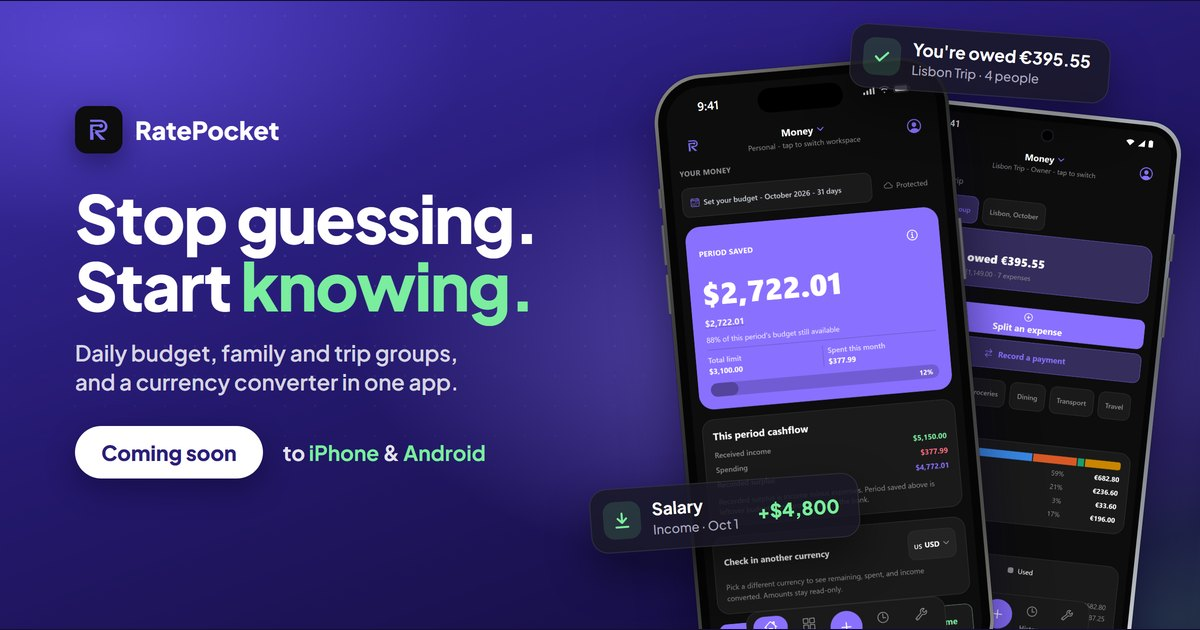
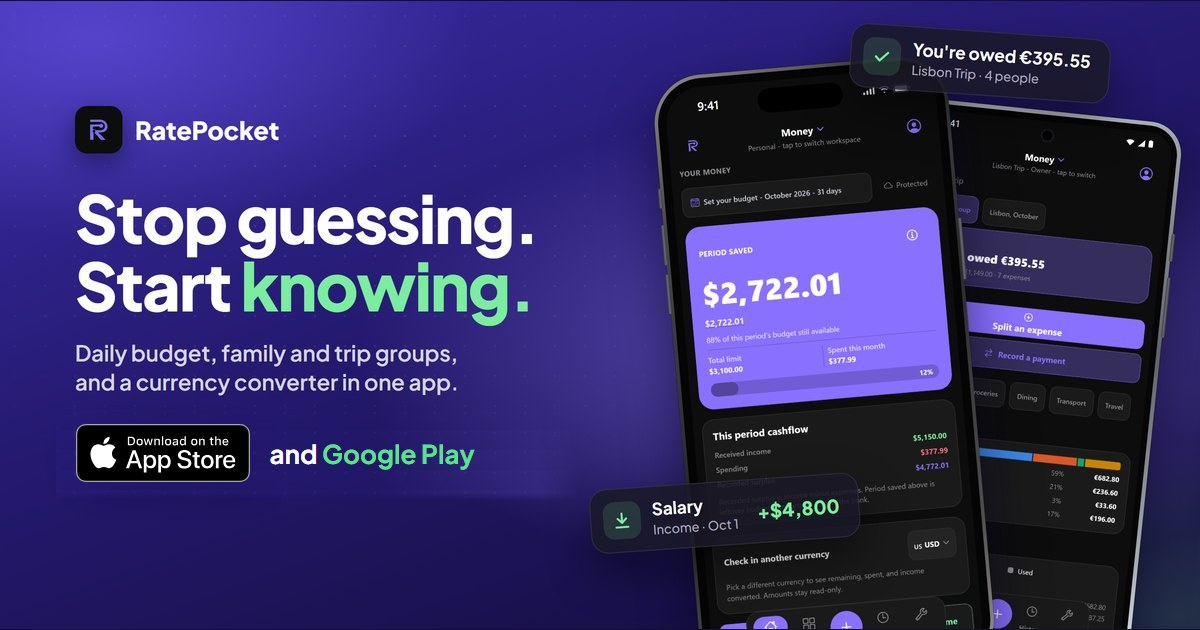
App Store live: official badge and link on every page (deployed c379fc52)
- Homepage hero + final CTA: Apple's official "Download on the App Store" badge (self-hosted, unaltered) linking to apps.apple.com id6817911460
- Meta/OG description, JSON-LD operatingSystem "iOS, Android", apple-itunes-app Smart App Banner, FAQ and CTA copy
- About, Press: App Store + Google Play links; /join: App Store link and copy in EN/FR/ES/AR/UR
- New og-image (badge + Google Play), cache-busted; source in docs/og-image-source.html
- Asset stamps refreshed by deploy; sitemap dates; README store section

Changed region(s): [[0.0617, 0.6635, 0.4008, 0.7841]]

diff --git a/public/index.html b/public/index.html
@@ -4,33 +4,34 @@
   <meta charset="utf-8">
   <meta name="viewport" content="width=device-width, initial-scale=1">
   <title>RatePocket: know what you can spend today</title>
-  <meta name="description" content="Budget, payday, Family and Split groups, AI receipt scan, cloud backup and reports in one simple app. Now on Google Play for Android; coming soon to iPhone.">
+  <meta name="description" content="Budget, payday, Family and Split groups, AI receipt scan, cloud backup and reports in one simple app. Now on the App Store for iPhone and Google Play for Android.">
   <meta name="robots" content="index, follow">
+  <meta name="apple-itunes-app" content="app-id=6817911460">
   <meta name="theme-color" content="#0E0B18">
   <link rel="canonical" href="https://ratepocket.tradali.com/">
   <link rel="icon" type="image/png" href="brand/logo-r.png">
   <link rel="apple-touch-icon" href="brand/logo-r.png">
   <meta property="og:title" content="RatePocket: know what you can spend today">
-  <meta property="og:description" content="Budget, payday, splits and receipts. One simple app. Now on Google Play; coming soon to iPhone.">
+  <meta property="og:description" content="Budget, payday, splits and receipts. One simple app. Now on the App Store and Google Play.">
   <meta property="og:url" content="https://ratepocket.tradali.com/">
   <meta property="og:type" content="website">
   <meta property="og:site_name" content="RatePocket">
   <meta property="og:locale" content="en_US">
-  <meta property="og:image" content="https://ratepocket.tradali.com/og-image.jpg">
+  <meta property="og:image" content="https://ratepocket.tradali.com/og-image.jpg?v=20261109">
   <meta property="og:image:width" content="1200">
   <meta property="og:image:height" content="630">
   <meta property="og:image:alt" content="RatePocket app screens: Stop guessing. Start knowing.">
   <meta name="twitter:card" content="summary_large_image">
   <meta name="twitter:title" content="RatePocket: know what you can spend today">
   <meta name="twitter:description" content="Budget, payday, splits and receipts. One simple app.">
-  <meta name="twitter:image" content="https://ratepocket.tradali.com/og-image.jpg">
+  <meta name="twitter:image" content="https://ratepocket.tradali.com/og-image.jpg?v=20261109">
   <script type="application/ld+json">
   {
     "@context": "https://schema.org",
     "@type": "SoftwareApplication",
     "name": "RatePocket",
     "applicationCategory": "FinanceApplication",
-    "operatingSystem": "Android",
+    "operatingSystem": "iOS, Android",
     "offers": { "@type": "Offer", "price": "0", "priceCurrency": "USD" },
     "description": "Budget, payday and income, Family and Split groups, AI receipt scan, cloud backup, reports and a currency converter in one app.",
     "url": "https://ratepocket.tradali.com/",
@@ -41,7 +42,7 @@
   </script>
   <link rel="preload" href="/fonts/plus-jakarta-sans-800.woff" as="font" type="font/woff" crossorigin>
   <link rel="preload" as="image" href="img/screens/personal-home-660.webp" fetchpriority="high">
-  <link rel="stylesheet" href="site.css?v=6da14e98">
+  <link rel="stylesheet" href="site.css?v=eaa4caa8">
 </head>
 <body>
   <svg width="0" height="0" style="position:absolute" aria-hidden="true" focusable="false">
@@ -122,10 +123,9 @@
               <svg width="20" height="20" aria-hidden="true"><use href="#i-device"/></svg>
               <span><small>GET IT ON</small><strong>Google Play</strong></span>
             </a>
-            <span class="store soon" role="img" aria-label="iPhone app: coming soon to the App Store">
-              <svg width="20" height="20" aria-hidden="true"><use href="#i-phone"/></svg>
-              <span><small>COMING SOON</small><strong>App Store</strong></span>
-            </span>
+            <a class="store-badge" href="https://apps.apple.com/lb/app/ratepocket-budget-planner/id6817911460" target="_blank" rel="noopener">
+              <img src="img/badges/app-store-en-us.svg" width="168" height="56" alt="Download on the App Store">
+            </a>
           </div>
           <ul class="trust" aria-label="Highlights">
             <li><svg width="20" height="20" aria-hidden="true"><use href="#i-check"/></svg>Free to start</li>
@@ -583,7 +583,7 @@
         <div class="faq">
           <details>
             <summary>When can I download it?<svg width="20" height="20" aria-hidden="true"><use href="#i-chev"/></svg></summary>
-            <div class="a"><p>Android: now, on <a href="https://play.google.com/store/apps/details?id=com.tradali.calculator" target="_blank" rel="noopener">Google Play</a>. iPhone: coming soon to the App Store; the button here will link to it the day it's live.</p></div>
+            <div class="a"><p>Android: now, on <a href="https://play.google.com/store/apps/details?id=com.tradali.calculator" target="_blank" rel="noopener">Google Play</a>. iPhone: now, on the <a href="https://apps.apple.com/lb/app/ratepocket-budget-planner/id6817911460" target="_blank" rel="noopener">App Store</a>.</p></div>
           </details>
           <details>
             <summary>Is it really free?<svg width="20" height="20" aria-hidden="true"><use href="#i-chev"/></svg></summary>
@@ -638,16 +638,15 @@
       <div class="cta-band">
         <div class="cta-copy">
           <h2 class="h2" id="get-title">Stop guessing. <span class="accent">Start knowing.</span></h2>
-          <p class="lead">Now on Google Play. Coming soon to iPhone.</p>
+          <p class="lead">Now on the App Store and Google Play.</p>
           <div class="stores">
             <a class="store" href="https://play.google.com/store/apps/details?id=com.tradali.calculator" target="_blank" rel="noopener" aria-label="Get RatePocket on Google Play">
               <svg width="20" height="20" aria-hidden="true"><use href="#i-device"/></svg>
               <span><small>GET IT ON</small><strong>Google Play</strong></span>
             </a>
-            <span class="store soon" role="img" aria-label="iPhone app: coming soon to the App Store">
-              <svg width="20" height="20" aria-hidden="true"><use href="#i-phone"/></svg>
-              <span><small>COMING SOON</small><strong>App Store</strong></span>
-            </span>
+            <a class="store-badge" href="https://apps.apple.com/lb/app/ratepocket-budget-planner/id6817911460" target="_blank" rel="noopener">
+              <img src="img/badges/app-store-en-us.svg" width="168" height="56" alt="Download on the App Store">
+            </a>
           </div>
           <p class="support">Questions? See <a href="support/">Help &amp; support</a> or email <a href="mailto:support.tradali@gmail.com">support.tradali@gmail.com</a></p>
         </div>

diff --git a/public/join/index.html b/public/join/index.html
@@ -91,7 +91,7 @@
     }
     .steps li { margin-bottom: 6px; }
     .muted { color: #8f8fa0; font-size: 0.85rem; }
-    .home { color: #a78bfa; font-weight: 700; font-size: 0.9rem; text-decoration: none; }
+    .home { display: block; margin: 0 auto 10px; width: fit-content; color: #a78bfa; font-weight: 700; font-size: 0.9rem; text-decoration: none; }
     .opening {
       display: flex;
       align-items: center;
@@ -138,7 +138,8 @@
       <li id="step2">Tap the workspace name at the top, then “Join a group with a code”.</li>
       <li id="step3">Enter the code above.</li>
     </ol>
-    <p id="soon" class="muted">RatePocket is on Google Play now. Coming soon to iPhone.</p>
+    <p id="soon" class="muted">RatePocket is on the App Store and Google Play.</p>
+    <a id="appstore" class="home" href="https://apps.apple.com/lb/app/ratepocket-budget-planner/id6817911460" target="_blank" rel="noopener">Download on the App Store</a>
     <a id="play" class="home" href="https://play.google.com/store/apps/details?id=com.tradali.calculator" target="_blank" rel="noopener">Get it on Google Play</a>
     <a id="home" class="home" href="/">ratepocket.tradali.com</a>
     </div>
@@ -158,7 +159,8 @@
           step1: 'Open RatePocket on this phone.',
           step2: 'Tap the workspace name at the top, then “Join a group with a code”.',
           step3: 'Enter the code above.',
-          soon: 'RatePocket is on Google Play now. Coming soon to iPhone.',
+          soon: 'RatePocket is on the App Store and Google Play.',
+          appstore: 'Download on the App Store',
           play: 'Get it on Google Play',
           badTitle: 'This invite link is incomplete',
           badLead: 'Ask the person who invited you to share the link or the code again.'
@@ -174,7 +176,8 @@
           step1: 'Ouvrez RatePocket sur ce téléphone.',
           step2: 'Touchez le nom de l’espace en haut, puis « Rejoindre un groupe avec un code ».',
           step3: 'Saisissez le code ci-dessus.',
-          soon: 'RatePocket est disponible sur Google Play. Bientôt sur iPhone.',
+          soon: 'RatePocket est disponible sur l’App Store et Google Play.',
+          appstore: 'Télécharger dans l’App Store',
           play: 'Disponible sur Google Play',
           badTitle: 'Ce lien d’invitation est incomplet',
           badLead: 'Demandez à la personne qui vous a invité de partager à nouveau le lien ou le code.'
@@ -190,7 +193,8 @@
           step1: 'Abre RatePocket en este teléfono.',
           step2: 'Toca el nombre del espacio arriba y luego «Unirse a un grupo con un código».',
           step3: 'Introduce el código de arriba.',
-          soon: 'RatePocket ya está en Google Play. Pronto en iPhone.',
+          soon: 'RatePocket ya está en el App Store y Google Play.',
+          appstore: 'Descargar en el App Store',
           play: 'Disponible en Google Play',
           badTitle: 'Este enlace de invitación está incompleto',
           badLead: 'Pide a quien te invitó que vuelva a compartir el enlace o el código.'
@@ -206,7 +210,8 @@
           step1: 'افتح RatePocket على هذا الهاتف.',
           step2: 'اضغط على اسم مساحة العمل في الأعلى، ثم «الانضمام إلى مجموعة برمز».',
           step3: 'أدخل الرمز أعلاه.',
-          soon: 'RatePocket متوفر الآن على Google Play، وقريبًا على iPhone.',
+          soon: 'RatePocket متوفر الآن على App Store وGoogle Play.',
+          appstore: 'حمّله من App Store',
           play: 'احصل عليه من Google Play',
           badTitle: 'رابط الدعوة هذا غير مكتمل',
           badLead: 'اطلب من الشخص الذي دعاك مشاركة الرابط أو الرمز مرة أخرى.'
@@ -222,7 +227,8 @@
           step1: 'اس فون پر RatePocket کھولیں۔',
           step2: 'اوپر ورک اسپیس کے نام پر ٹیپ کریں، پھر “کوڈ سے گروپ میں شامل ہوں”۔',
           step3: 'اوپر دیا گیا کوڈ درج کریں۔',
-          soon: 'RatePocket اب Google Play پر دستیاب ہے، اور جلد iPhone پر آ رہا ہے۔',
+          soon: 'RatePocket اب App Store اور Google Play پر دستیاب ہے۔',
+          appstore: 'App Store سے ڈاؤن لوڈ کریں',
           play: 'Google Play سے حاصل کریں',
           badTitle: 'یہ دعوتی لنک نامکمل ہے',
           badLead: 'جس نے آپ کو مدعو کیا ہے اس سے لنک یا کوڈ دوبارہ شیئر کرنے کو کہیں۔'
@@ -254,6 +260,7 @@
       var valid = /^[0-9A-HJKMNP-TV-Z]{10}$/.test(code);
 
       text('soon', s.soon);
+      text('appstore', s.appstore);
       text('play', s.play);
       text('openingText', s.opening);
       function showFallback() {

diff --git a/public/press/index.html b/public/press/index.html
@@ -14,7 +14,7 @@
   <meta property="og:url" content="https://ratepocket.tradali.com/press/">
   <meta property="og:type" content="website">
   <meta property="og:image" content="https://ratepocket.tradali.com/og-image.jpg">
-  <link rel="stylesheet" href="../site.css?v=6da14e98">
+  <link rel="stylesheet" href="../site.css?v=eaa4caa8">
 </head>
 <body>
   <a class="skip" href="#main">Skip to content</a>
@@ -48,7 +48,7 @@
           <tbody>
             <tr><td data-label="Item"><strong>Name</strong></td><td data-label="Detail">RatePocket</td></tr>
             <tr><td data-label="Item"><strong>Made by</strong></td><td data-label="Detail"><a href="https://tradali.com/">Tradali</a></td></tr>
-            <tr><td data-label="Item"><strong>Platforms</strong></td><td data-label="Detail">Android (Google Play); iPhone coming soon</td></tr>
+            <tr><td data-label="Item"><strong>Platforms</strong></td><td data-label="Detail">iPhone (<a href="https://apps.apple.com/lb/app/ratepocket-budget-planner/id6817911460">App Store</a>); Android (<a href="https://play.google.com/store/apps/details?id=com.tradali.calculator">Google Play</a>)</td></tr>
             <tr><td data-label="Item"><strong>Price</strong></td><td data-label="Detail">Free, with optional plans: Personal $3.99 a month and Pro+ $7.99 a month (USD)</td></tr>
             <tr><td data-label="Item"><strong>Languages</strong></td><td data-label="Detail">English, Arabic, Spanish, French, Urdu</td></tr>
             <tr><td data-label="Item"><strong>Website</strong></td><td data-label="Detail"><a href="https://ratepocket.tradali.com/">ratepocket.tradali.com</a></td></tr>

diff --git a/docs/og-image-source.html b/docs/og-image-source.html
@@ -1,0 +1,21 @@
+<!doctype html>
+<html><head><meta charset="utf-8">
+<!-- Source for public/og-image.jpg (1200x630). Base art = docs/og-image-base-clean.png (docs/og-image-base-2026-10.jpg with its old "Coming soon" row painted out); this page
+     replaces its old "Coming soon to iPhone & Android" row with Apple's official badge + Google Play text.
+     Render: msedge --headless --hide-scrollbars --window-size=1200,630 --screenshot=out.png docs/og-image-source.html -->
+<style>
+@font-face { font-family: PJS; src: url(../public/fonts/plus-jakarta-sans-700.woff) format("woff"); font-weight: 700; }
+html, body { margin: 0; width: 1200px; height: 630px; overflow: hidden; }
+body { position: relative; background: url(og-image-base-clean.png) 0 0 / 1200px 630px no-repeat; font-family: PJS, sans-serif; }
+/* Cover the old row with clean background taken from the empty area just below it. */
+.patch { position: absolute; left: 56px; top: 412px; width: 520px; height: 82px;
+  background: url(og-image-base-2026-10.jpg) -56px -505px / 1200px 630px no-repeat;
+  -webkit-mask-image: linear-gradient(to right, #000 92%, transparent); mask-image: linear-gradient(to right, #000 92%, transparent); }
+.row { position: absolute; left: 76px; top: 424px; display: flex; align-items: center; gap: 20px; }
+.row img { height: 58px; width: auto; display: block; }
+.row span { color: #fff; font-size: 26px; font-weight: 700; }
+.row b { color: #5EE08F; font-weight: 700; }
+</style></head>
+<body>
+  <div class="row"><img src="../public/img/badges/app-store-en-us.svg" alt=""><span>and <b>Google Play</b></span></div>
+</body></html>

diff --git a/public/about/index.html b/public/about/index.html
@@ -14,7 +14,7 @@
   <meta property="og:url" content="https://ratepocket.tradali.com/about/">
   <meta property="og:type" content="website">
   <meta property="og:image" content="https://ratepocket.tradali.com/og-image.jpg">
-  <link rel="stylesheet" href="../site.css?v=6da14e98">
+  <link rel="stylesheet" href="../site.css?v=eaa4caa8">
 </head>
 <body>
   <a class="skip" href="#main">Skip to content</a>
@@ -54,7 +54,7 @@
       </ul>
 
       <h2 id="who">Who makes it</h2>
-      <p>RatePocket is made by <a href="https://tradali.com/">Tradali</a>, an independent app maker. It's on Google Play for Android now, and coming soon to iPhone, in English, Arabic, Spanish, French and Urdu.</p>
+      <p>RatePocket is made by <a href="https://tradali.com/">Tradali</a>, an independent app maker. It's on the <a href="https://apps.apple.com/lb/app/ratepocket-budget-planner/id6817911460">App Store</a> for iPhone and <a href="https://play.google.com/store/apps/details?id=com.tradali.calculator">Google Play</a> for Android, in English, Arabic, Spanish, French and Urdu.</p>
 
       <h2 id="contact">Contact</h2>
       <p>Questions, ideas or partnership requests: <a href="mailto:support.tradali@gmail.com">support.tradali@gmail.com</a>. For help with the app, see <a href="../support/">Help &amp; support</a>. Journalists can find logos and screenshots in the <a href="../press/">press kit</a>.</p>

diff --git a/public/site.css b/public/site.css
@@ -74,7 +74,7 @@ p { margin: 0; }
 .btn-ghost:hover { border-color: var(--violet); color: #fff; }
 .btn-sm { min-height: 40px; padding: 8px 16px; font-size: 15px; }
 
-/* Store buttons. While a listing is not live they render as non-link "Coming soon" labels. */
+/* Store buttons. App Store uses Apple's official badge (img/badges, unaltered, only scaled); Google Play is the styled .store button. */
 .stores { display: flex; flex-wrap: wrap; gap: 12px; }
 .store {
   display: inline-flex; align-items: center; gap: 12px; min-height: 56px; padding: 10px 20px 10px 16px;
@@ -84,9 +84,10 @@ p { margin: 0; }
 .store span { display: flex; flex-direction: column; line-height: 1.15; }
 .store small { font-size: 12px; color: var(--muted); font-weight: 600; letter-spacing: .02em; }
 .store strong { font-size: 17px; font-weight: 700; }
-.store.soon { cursor: default; }
 @media (max-width: 420px) { .store { padding: 8px 14px 8px 12px; gap: 10px; min-height: 52px; } .store strong { font-size: 16px; } }
-.store.soon small { color: var(--green); }
+.store-badge { display: inline-flex; border-radius: 14px; }
+.store-badge img { display: block; height: 56px; width: auto; }
+@media (max-width: 420px) { .store-badge img { height: 52px; } }
 a.store:hover { border-color: var(--violet); color: #fff; }
 
 /* ---------- Navigation ---------- */

diff --git a/public/support/index.html b/public/support/index.html
@@ -14,7 +14,7 @@
   <meta property="og:url" content="https://ratepocket.tradali.com/support/">
   <meta property="og:type" content="website">
   <meta property="og:image" content="https://ratepocket.tradali.com/og-image.jpg">
-  <link rel="stylesheet" href="../site.css?v=6da14e98">
+  <link rel="stylesheet" href="../site.css?v=eaa4caa8">
   <script type="application/ld+json">
 {
  "@context": "https://schema.org",

diff --git a/public/delete-account/index.html b/public/delete-account/index.html
@@ -14,7 +14,7 @@
   <meta property="og:url" content="https://ratepocket.tradali.com/delete-account/">
   <meta property="og:type" content="website">
   <meta property="og:image" content="https://ratepocket.tradali.com/og-image.jpg">
-  <link rel="stylesheet" href="../site.css?v=6da14e98">
+  <link rel="stylesheet" href="../site.css?v=eaa4caa8">
 </head>
 <body>
   <a class="skip" href="#main">Skip to content</a>

diff --git a/public/privacy/index.html b/public/privacy/index.html
@@ -14,7 +14,7 @@
   <meta property="og:url" content="https://ratepocket.tradali.com/privacy/">
   <meta property="og:type" content="website">
   <meta property="og:image" content="https://ratepocket.tradali.com/og-image.jpg">
-  <link rel="stylesheet" href="../site.css?v=6da14e98">
+  <link rel="stylesheet" href="../site.css?v=eaa4caa8">
 </head>
 <body>
   <a class="skip" href="#main">Skip to content</a>

diff --git a/public/terms/index.html b/public/terms/index.html
@@ -14,7 +14,7 @@
   <meta property="og:url" content="https://ratepocket.tradali.com/terms/">
   <meta property="og:type" content="website">
   <meta property="og:image" content="https://ratepocket.tradali.com/og-image.jpg">
-  <link rel="stylesheet" href="../site.css?v=6da14e98">
+  <link rel="stylesheet" href="../site.css?v=eaa4caa8">
 </head>
 <body>
   <a class="skip" href="#main">Skip to content</a>

diff --git a/README.md b/README.md
@@ -18,7 +18,10 @@ Checked against the app on 2026-10-06 (`src/theme.ts`, `src/budget/categories.ts
 
 ## Store buttons
 
-Neither store listing is public yet (both 404 on 2026-10-06), so the homepage shows non-link "Coming soon" store labels (`.store.soon`) in the hero and the final CTA. When a listing goes live, replace that `<span class="store soon">` with the official App Store / Google Play badge linking to the listing.
+Both stores are live:
+
+- **App Store (iPhone):** https://apps.apple.com/lb/app/ratepocket-budget-planner/id6817911460 (app id 6817911460, live since 2026-11-09). The homepage hero and final CTA use Apple's official black "Download on the App Store" badge, self-hosted at `public/img/badges/app-store-en-us.svg` (downloaded from Apple's badge service, unaltered; only scaled in CSS, `.store-badge`). The homepage also has the `apple-itunes-app` meta for Safari's Smart App Banner.
+- **Google Play (Android):** https://play.google.com/store/apps/details?id=com.tradali.calculator (styled `.store` button).
 
 ## URLs
 
